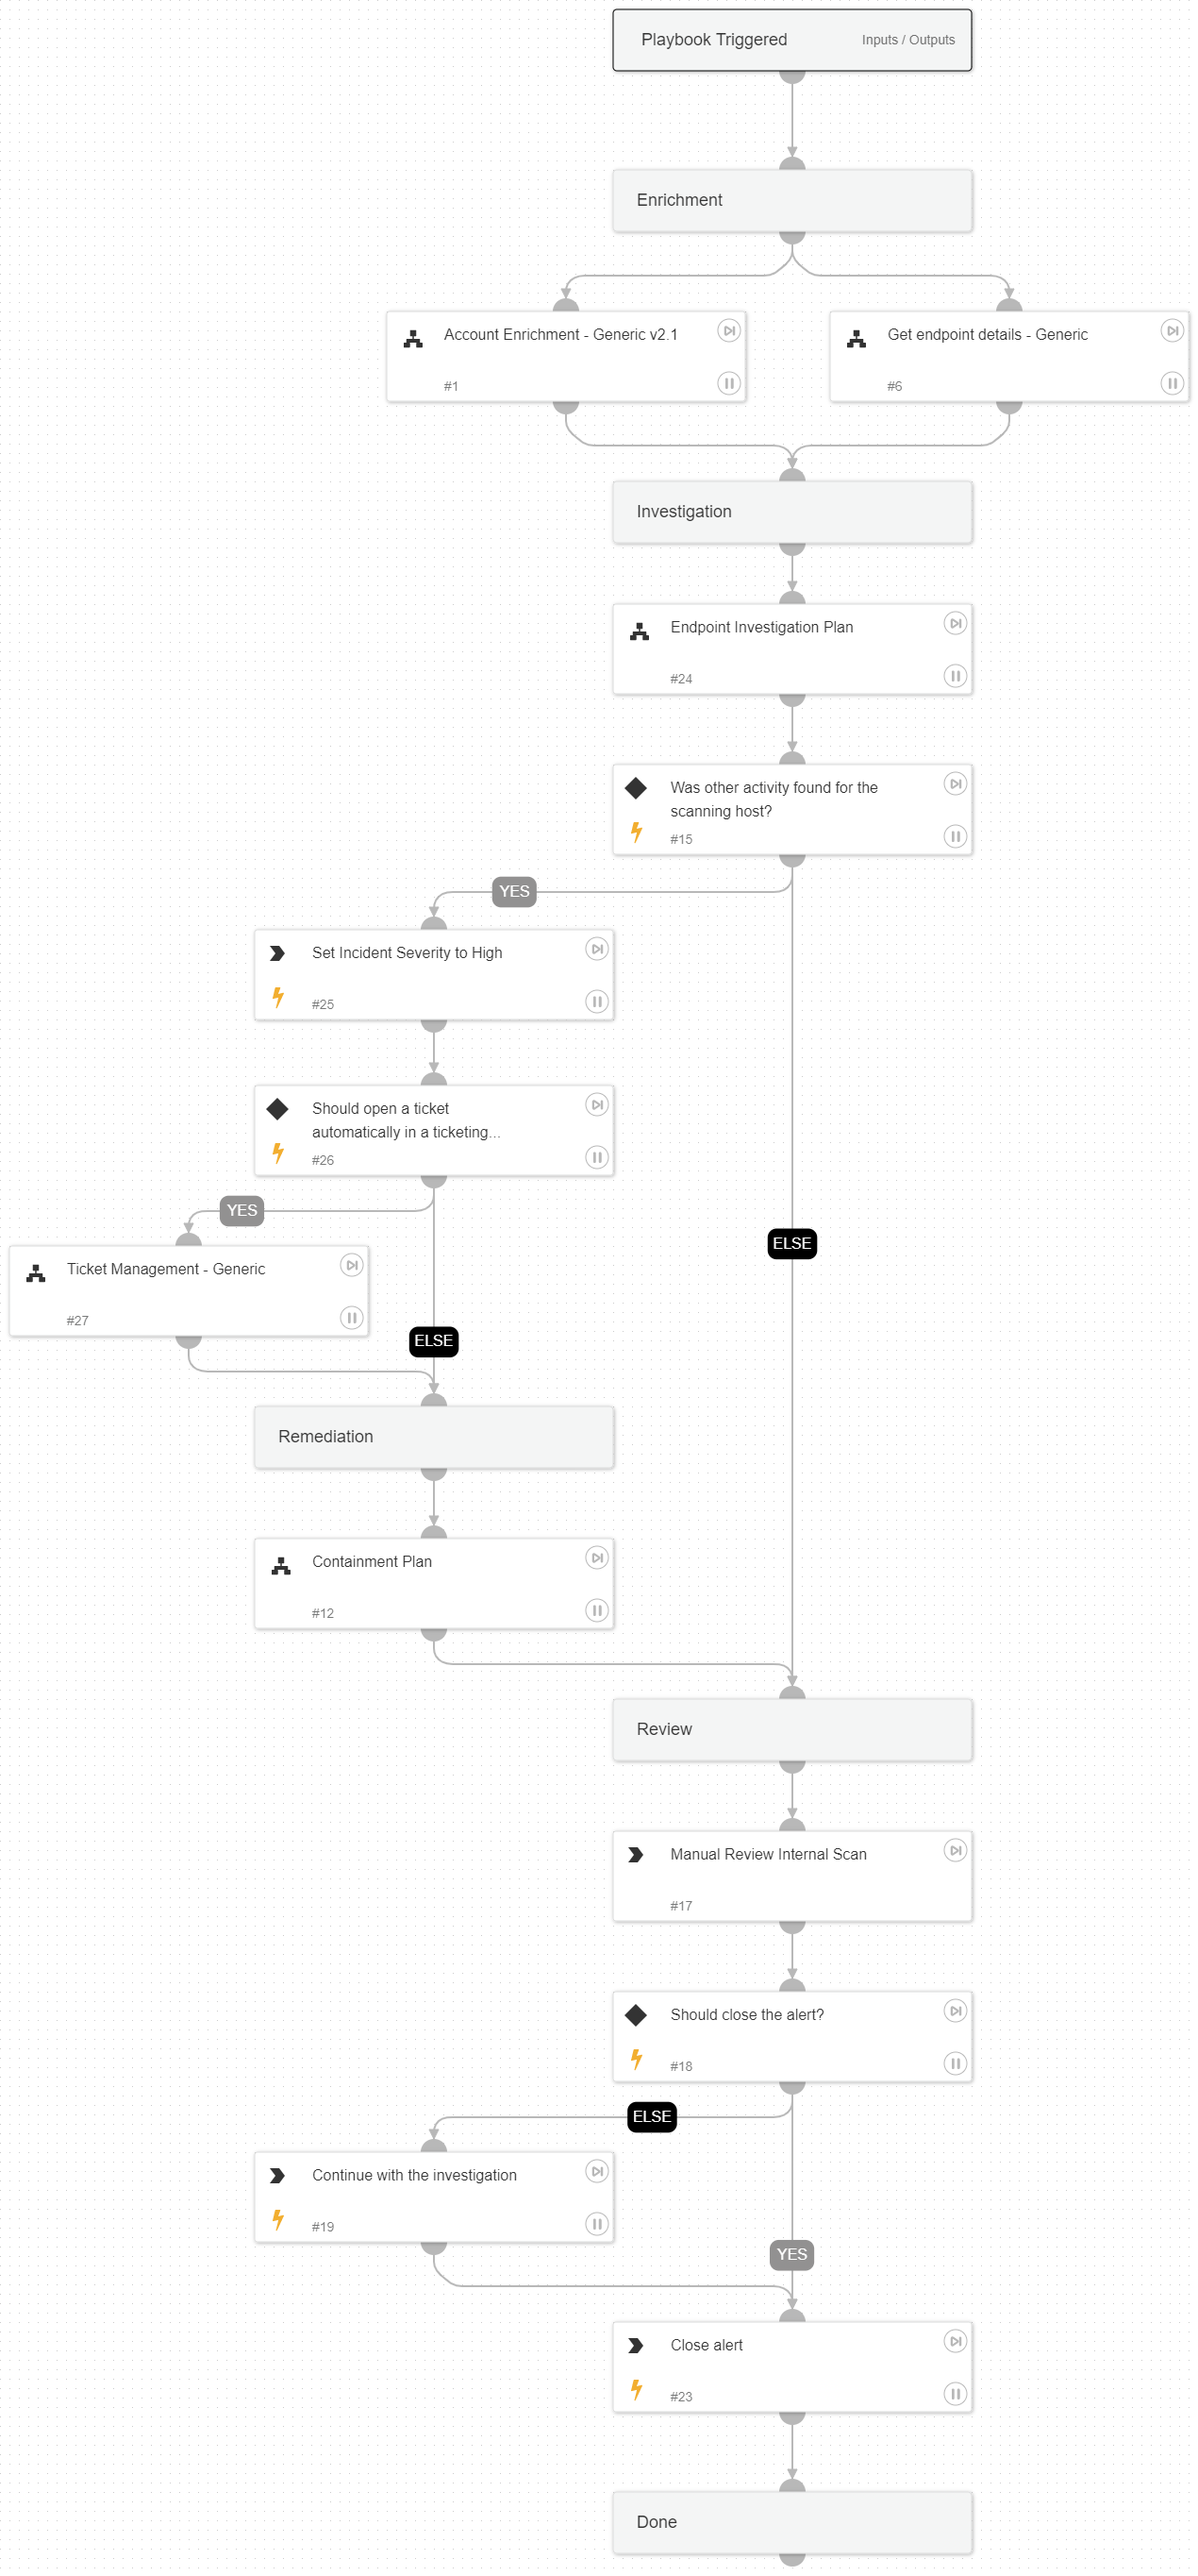
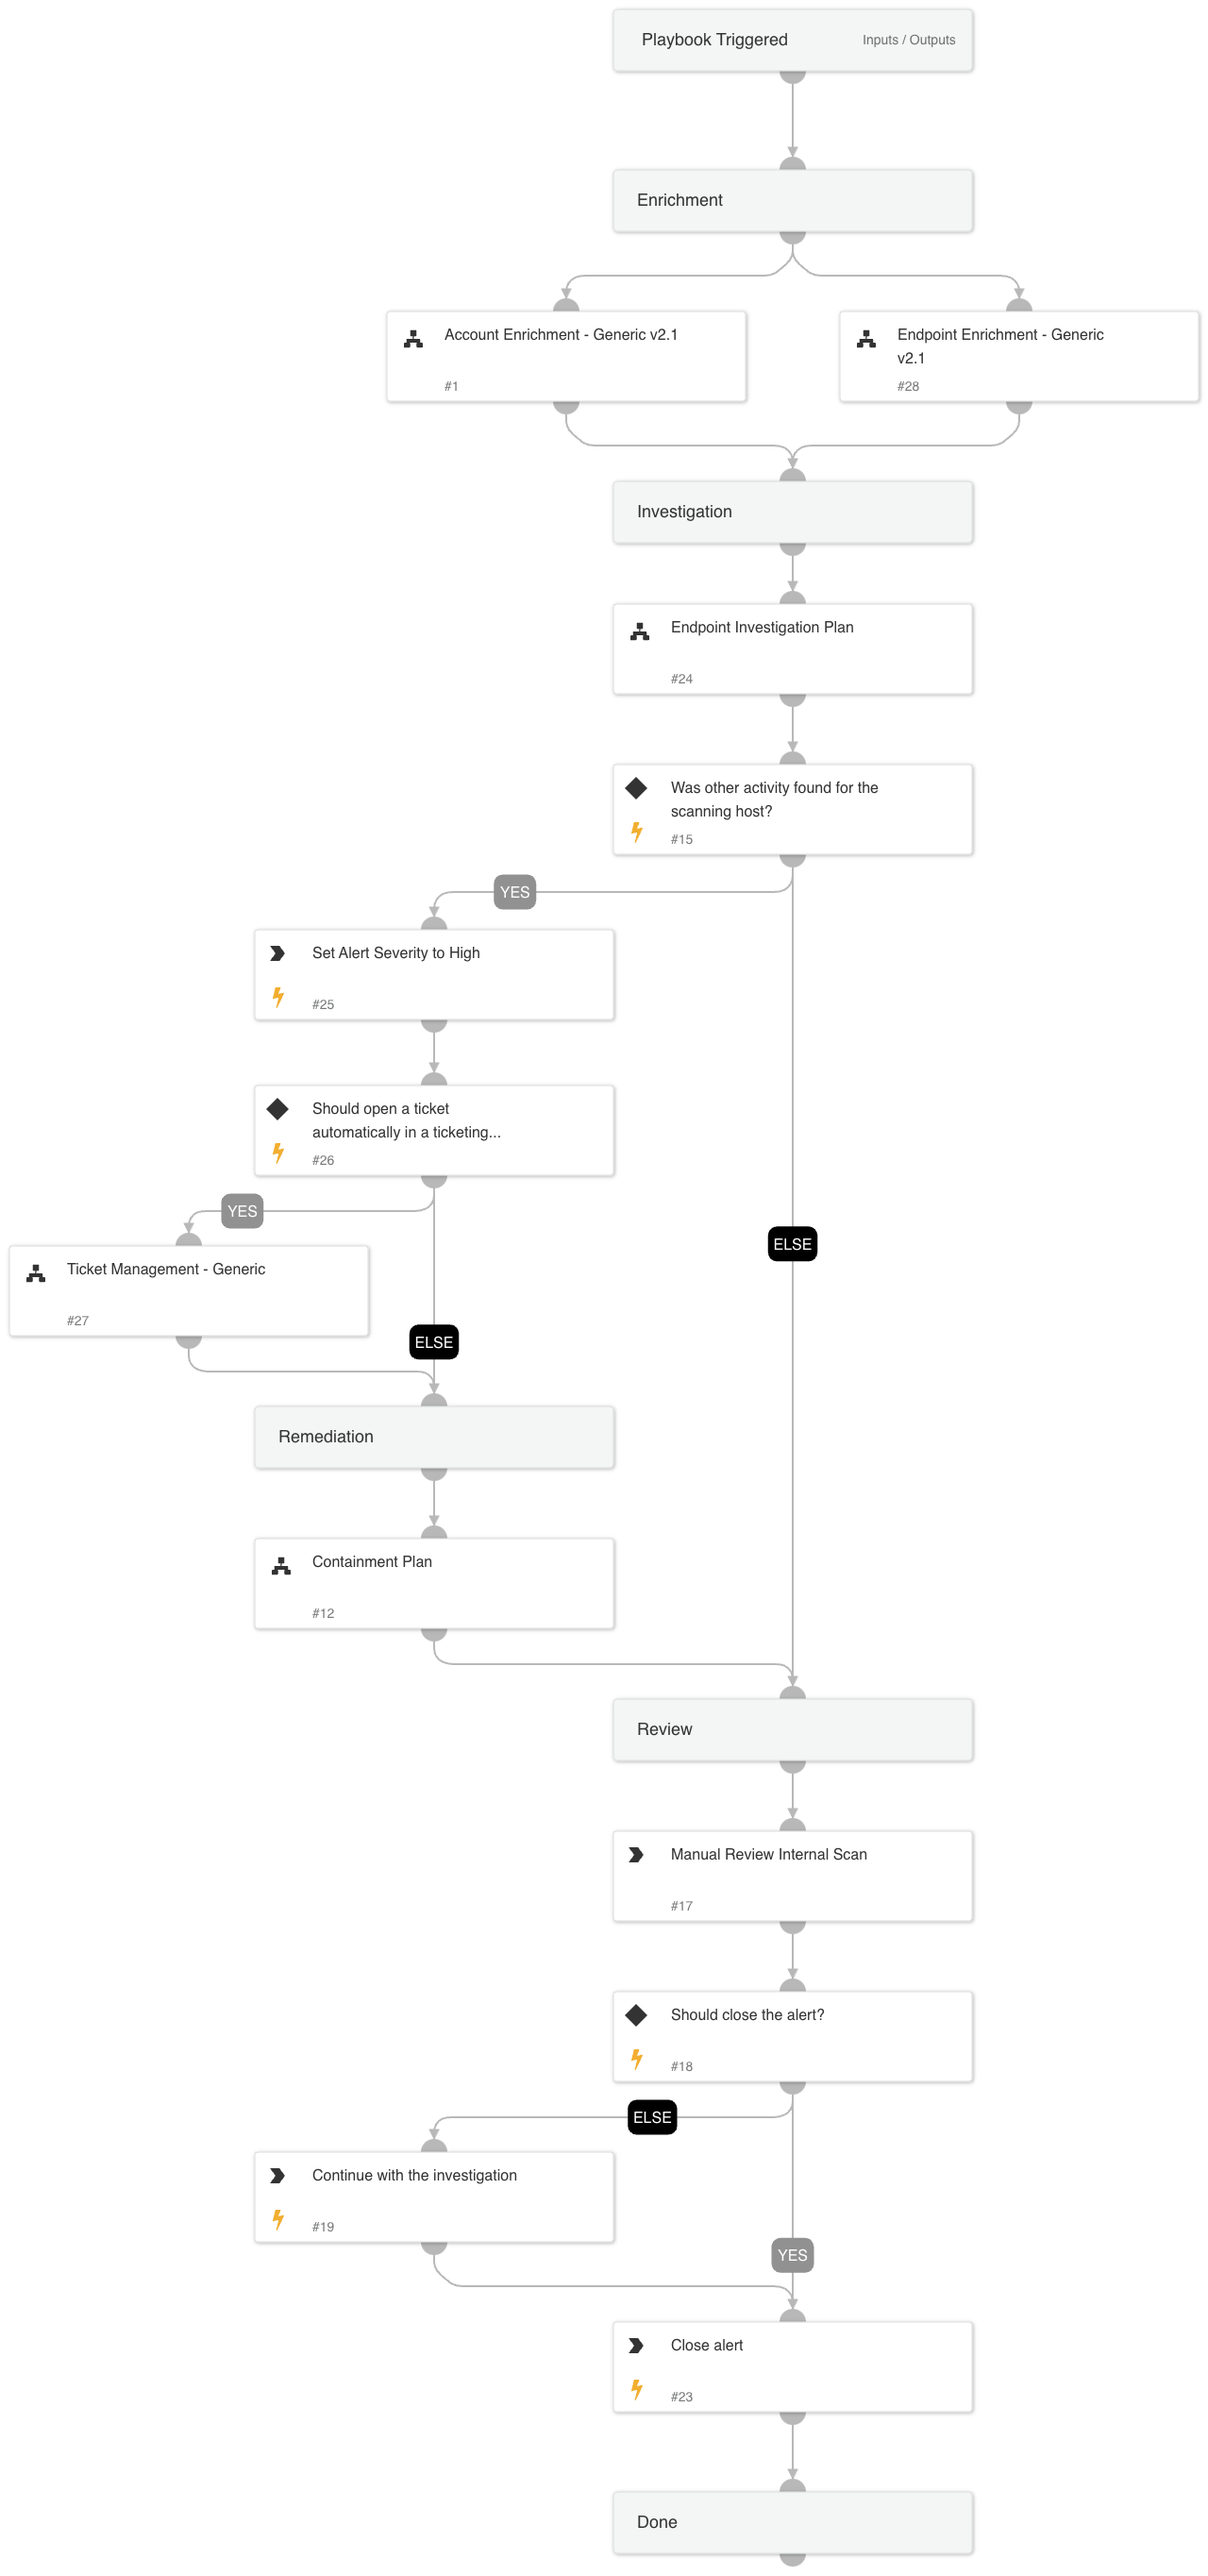
Fixes for NGFW Internal Scan

diff --git a/Packs/Core/Playbooks/playbook-NGFW_Internal_Scan_README.md b/Packs/Core/Playbooks/playbook-NGFW_Internal_Scan_README.md
@@ -25,11 +25,11 @@ This playbook uses the following sub-playbooks, integrations, and scripts.
 
 ### Sub-playbooks
 
-* Get endpoint details - Generic
 * Endpoint Investigation Plan
-* Containment Plan
-* Account Enrichment - Generic v2.1
 * Ticket Management - Generic
+* Account Enrichment - Generic v2.1
+* Endpoint Enrichment - Generic v2.1
+* Containment Plan
 
 ### Integrations
 
@@ -41,8 +41,8 @@ This playbook does not use any scripts.
 
 ### Commands
 
-* closeInvestigation
 * setParentIncidentFields
+* closeInvestigation
 
 ## Playbook Inputs
 
